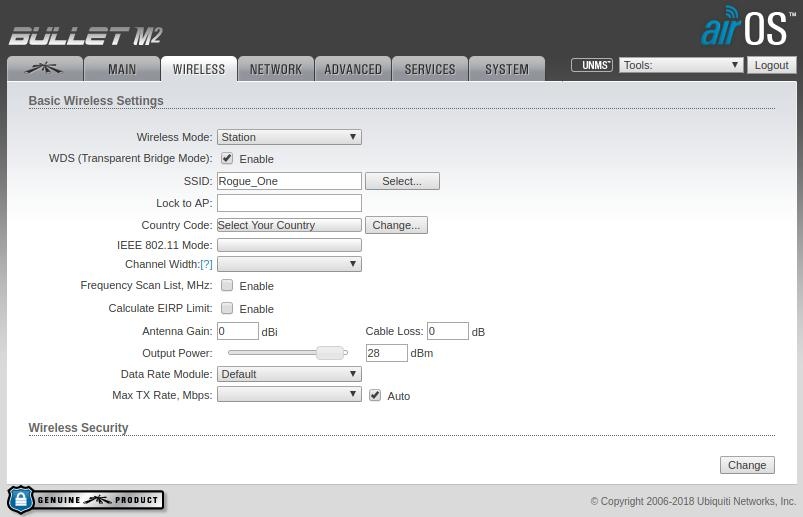
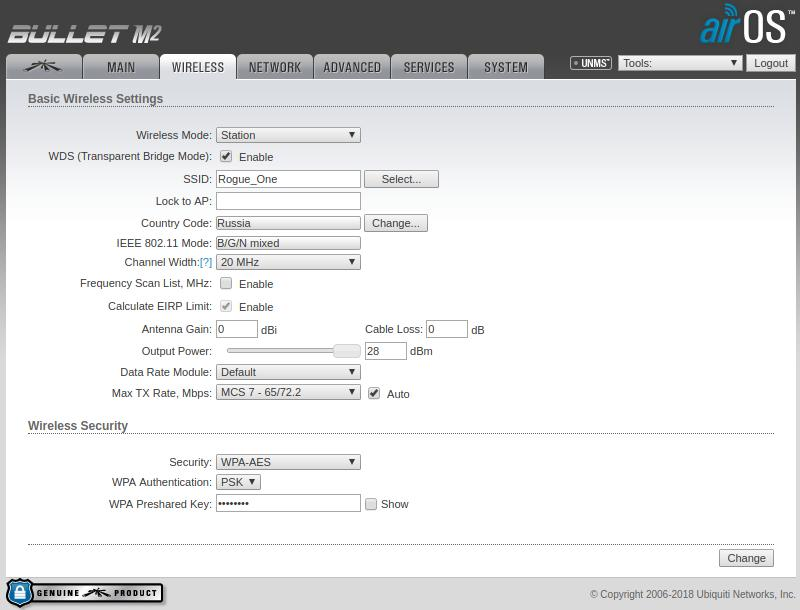
Bullet Setup instructions.

diff --git a/Bullet/Setup.md b/Bullet/Setup.md
@@ -1,14 +1,122 @@
 # Настройка Bullet
 
 Вся настройка производится через веб-интерфейс (т.е. через браузер). Есть возможность подключаться к Bullet'ам через ssh
-и проводить настройку таким образом через командную строку, но этого никогда не делали, потому что не было такой
-необходимости. 
+и проводить настройку таким образом через командную строку, для этого вводится команда:`ssh ubnt@ip.address`, где 
+ip.address - текущий адрес точки доступа (т.е. по умолчанию будет `ssh ubnt@192.168.1.20`). Но этого никогда не делали, 
+потому что не было такой необходимости. 
 
-В адресную строку браузера вводится IP-адрес точки доступа, после этого обычно возникает предупреждение о безопасности,
+По умолчанию IP адрес для Bullet: `192.168.1.20`.  
+В адресную строку браузера вводится IP-адрес Bullet'а, после этого обычно возникает предупреждение о безопасности,
 добавляем исключение, тогда появляется форма для входа.  
 По умолчанию:  
 Логин: `ubnt`  
-Пароль: `ubnt`
+Пароль: `ubnt`  
 
-Если все прошло хорошо, должна появиться вот такая картина
-![Main page](https://github.com/victorvorobev/Database/blob/master/Bullet/Images/main.jpg)
+Если по какой-то причине вы забыли какой адрес зафиксирован за Bullet'ом доступа, найти ее с помощью сканера сети не 
+выходит, и вообще много что пошло не так, можно сбросить точку доступа до заводских настроек. Для этого на Bullet 
+подается питание, после этого на несколько секунд (10-15) зажимается кнопка `Reset` (она рядом с ethernet разъемом). 
+Как только Bullet перестал моргать своими светодиодами - к нему можно снова пытаться подключиться по стандартному 
+IP-адресу, со стандартным логином и паролем.
+
+Если все прошло хорошо, должна появиться вот такая картина (для Bullet'а настроенного как точка доступа) - **вкладка 
+Main**  
+![Main page](https://github.com/victorvorobev/Database/blob/master/Bullet/Images/main.jpg)  
+
+Здесь отражены все основные сведения о текущем состоянии Bullet'a, названия в большинстве своем говорят за себя.
+Основные, которые будут вас волновать скорее всего чаще всего:
+- `Wireless Mode` - в каком режиме работает Bullet, станция или точка доступа.
+
+- `SSID` - имя сети, которую данная точка доступа раздает
+
+- `Channel/Frequency` - номер канала, на котором работает Bullet, должен быть настроен одинаково для всех Bullet'ов в 
+сети.
+
+- `Channel width` - должен быть настроен одинаково для всех Bullet'ов в сети.
+
+- `airMAX` - включена ли надстройка airMAX, опять же, должно быть одинаково настроено для всех Bullet'ов в сети (либо у 
+всех выключено)
+
+
+## Вкладка airMAX  
+![airMAX](https://github.com/victorvorobev/Database/blob/master/Bullet/Images/airMAX.jpg)  
+
+Здесь происходит настройка всех параметров airMAX для Bullet'ов.
+Если Bullet настроен как точка доступа (на картинке), здесь можно включить или выключить эту надстройку.  
+Если Bullet настроен как станция, здесь можно выставить приоритет airMAX.  
+Пока никто не экспериментировал с этими настройками в полной мере.  
+
+## Вкладка Wireless для Bullet настроенного как Access Point  
+![Access Point](https://github.com/victorvorobev/Database/blob/master/Bullet/Images/wireless_access_point.jpg)    
+Основные настройки:
+- `Wireless Mode` - Режим работы Bullet - станция, точка доступа, повторитель (не использовалось нами).
+
+- `WDS` - если я правильно понимаю, это позволяет использовать точки доступа как "прозрачные мосты" в сети, т.е. пакеты
+просто напрямую пробрасываются от Ethernet до Wi-Fi. Таким образом можно настроить Bullet'ы так, что у них будут 
+IP-адреса настроены под другую подсеть, Raspberry Pi и пульт их видеть не будут, но сеть будет работать.
+
+- `SSID` - имя Wi-Fi сети, которую раздает точка доступа
+
+- `Channel width` - ширина каждого канала. Из справки самого Bullet: чем шире канал, тем выше пропускная способность, но
+ниже стабильность на больших дистанциях. Не уверен какая настройка будет оптимальной для нас, **нужны эксперименты**.
+
+- `Frequency` - частота, на которой работает Bullet, фактически номер канала на котором он сейчас работает. По хорошему
+надо использовать сканер частот, определять какой канал более свободен прямо сейчас, и занимать его. Можно выставить в 
+режим `auto` тогда Bullet будет сам пытаться занять более свободный, но работает это не очень хорошо.
+
+- `Antenna Gain`, `Cable loss`, `Output power` - полагаю, эти три настройки позволят оптимально настроить выходную 
+мощность Bullet, но этим никто особо не занимался, **нужны эксперименты**.
+
+- `Wireless security` - здесь настраивается пароль, по которому можно будет подключиться к точке доступа. Можно
+настроить вплоть до разрешения только конкретным устройствам с конкретным MAC-адресом, но обычно использовали только
+пароль.
+
+
+## Вкладка Wireless для Bullet настроенного как Station  
+![Station](https://github.com/victorvorobev/Database/blob/master/Bullet/Images/wireless_station.jpg)  
+Настроек здесь гораздо меньше, к тому же большая часть совпадает с настройками точки доступа.
+Основные настройки:  
+- `SSID` - имя сети, к которой будет подключаться станция. Можно нажать кнопку `Select` и выбрать точку доступа из тех, 
+которые видны этой станции (очевидно, для этого нужная точка доступа должна быть включена).
+
+- `Wireless Security` - здесь вводится пароль от  сети, к которой вы пытаетесь подключиться.  
+Остальные настройки совпадают с настройками точки доступа.
+
+## Вкладка Network  
+![Network](https://github.com/victorvorobev/Database/blob/master/Bullet/Images/network.jpg)  
+Здесь настраивается все, что касается проводного соединения с Bullet.  
+Основные настройки:
+- `Management IP Address` - фиксированный (Static) или динамический (DHCP) ip-адрес установлен у Bullet'a. Динамический
+IP должен кто-то выдавать, поэтому DHCP указывается только у Bullet'a подключенного к роутеру, который раздает интернет
+(например, так настроен Bullet который раздает Wi-Fi в лаборатории). Во всех остальных случаях стоит прописать 
+статический IP и отметить его где-нибудь (например написать прямо на корпусе Bullet'a)  
+
+- `DHCP Fallback IP` - для настройки DHCP. Полагаю это тот IP адрес, который будет задан Bullet'у, если по какой-то 
+причине извне никто не задаст ему адреса.
+
+- `IP Address` - для настройки Static именно этот IP адрес будет в любом случае присвоен Bullet'у, по этому адресу можно
+ будет к нему подключиться
+
+## Вкладка Advanced  
+![Advanced](https://github.com/victorvorobev/Database/blob/master/Bullet/Images/advanced.jpg)  
+Откровенно говоря тут никто никогда и ничего не настраивал, так что оставим этот раздел на будущее. Из того, что может
+быть интересным - настройка `Signal LED hresholds` - указать какой светодиод должен загораться при каком уровне сигнала.
+
+## Вкладка Services  
+![Services](https://github.com/victorvorobev/Database/blob/master/Bullet/Images/services.jpg)  
+Тут тоже никто ничего и никогда не настраивал. Из того что кажется интересным на первый взгляд:
+- `Ping watchdog` - Bullet будет периодически пинговать указанный IP адрес. В случае если этот адрес окажется 
+недостижим, Bullet перезагружается.
+
+- `SSH server` - настройки подключения к Bullet по ssh. Не знаю зачем может понадобиться изменять настройки по умолчанию.
+
+## Вкладка System  
+![System](https://github.com/victorvorobev/Database/blob/master/Bullet/Images/system.jpg)  
+Общие настройки конкретно для этого Bullet'a: 
+- Текущая версия прошивки, которую следует периодически обновлять. Для этого c 
+[официального сайта](https://www.ubnt.com/download/airmax-m/bulletm) скачивается последняя версия прошивки, после чего
+файл заливается на Bullet кнопка рядом с надписью `Upload Firmware`.
+
+- Здесь же можно настроить имя устройства, имя пользователя по которому происходит подключение к Bullet, часовой пояс 
+(нужно только для логов, как я понял), выключить кнопку `reset` (никогда так не делайте), и т.д.
+
+- Из самого полезного - здесь есть кнопка `Reboot`, чтобы программно перезагрузить Bullet без нажатия на кнопку.

diff --git a/Bullet/Common.md b/Bullet/Common.md
@@ -1,6 +1,6 @@
 ### Общая информация
 - Bullet как и Rocket питается по технологии [PoE](https://ru.wikipedia.org/wiki/Power_over_Ethernet). Это значит, что 
-по тому Ethernet кабелю, который втыкается в точку доступа, течет где-то от 8 до 24 В. То есть если вы перепутаете, 
+по тому Ethernet кабелю, который втыкается в Bullet, течет где-то от 8 до 24 В. То есть если вы перепутаете, 
 какой провод куда втыкать, в лучшем случае вы лишитесь только сетевой карты. Отсюда два простых правила:  
 
   - ***ПОЕ В ПУЛЮ***. 
@@ -8,11 +8,28 @@
   сгорит.  
 - Провод для подключения к роботу изготавливается самостоятельно, лучше под присмотром знающего человека (в идеале - 
 руководителя). Берется Ethernet кабель подходящей длины (**обязательно чтобы каждый провод был многожильным**), в 
-изоляции делается надрез и извлекаются 4 провода: синий, бело-синий, коричневый, бело-коричневый. Их кончики зачищаются, 
-и скручиваются попарно: синий - с синим, коричневый - с коричневым. После этого, ***ВНИМАНИЕ,*** **коричневый - это 
-минус, синий - это плюс**. (Но лучше все еще уточнять у руководителя, или сверять с уже готовым проводом, который точно 
-работал.)
+изоляции делается надрез и извлекаются 4 провода из одного из разъемов: синий, бело-синий, коричневый, бело-коричневый.
+Их кончики зачищаются, и скручиваются попарно: синий - с синим, коричневый - с коричневым. После этого, ***ВНИМАНИЕ,*** 
+**коричневый - это минус, синий - это плюс**. (Но лучше все еще уточнять у руководителя, или сверять с уже готовым 
+проводом, который точно работал.) Так получается провод у которого в одном разъеме **4 провода - Это LAN** (подключается
+в Raspberry Pi, или ноутбук), во втором разъеме **8 проводов - это PoE** (подключается **только** в Bullet).
 
+- Мы используем Bullet обычно в двух режимах работы:
+  - `Access point` - точка доступа. Это значит что Bullet раздает сеть, к которой могут подключаться другие устройства. 
+  Например Wi-Fi в лаборатории раздает Bullet настроенный как точка доступа.
+  - `Station` - станция. Это значит, что этот Bullet будет пытаться подключиться к точке доступа, которая указана у него
+  в настройках. Например все Bullet'ы, которые катаются на наших роботах, настроены в режим Station. 
+  
+- На Bullet'ах и на Rocket'е есть 6 светодиодов (по какой-то причине у новых Bullet M5 Titan они спрятаны внутрь 
+корпуса).
+  - Первый - обозначен значком "выкл" - питание Bullet. Либо горит зеленым, либо не горит вообще.
+  - Второй - обозначен стрелочками влево-вправо. Либо не горит, либо моргает. Обозначает наличие связи по проводам. Если
+  моргает - пакеты идут, если не горит - значит связи нет (скорее всего забыли включить провод в компьютер).
+  - Следующие 4 - уровень сигнала. Активны только когда Bullet'ы "сцепились" между собой. То есть подключение между
+  Bullet'ами установлено и они видят друг друга по wi-fi.  
+  Если вдруг Bullet настроен как точка доступа без airMAX или без пароля, эти 4 светодиода будут гореть если к точке
+  доступа в принципе кто-то подключен (например телефон или ноутбук к нашему wi-fi в лаборатории.)
+ 
 - Разъем, который по умолчанию установлен на Bullet называется 
 [N-Type](https://ru.wikipedia.org/wiki/N-%D0%BA%D0%BE%D0%BD%D0%BD%D0%B5%D0%BA%D1%82%D0%BE%D1%80), который бывает Male и 
 Female. Рекомендую смотреть по факту, какой именно понадобится.
